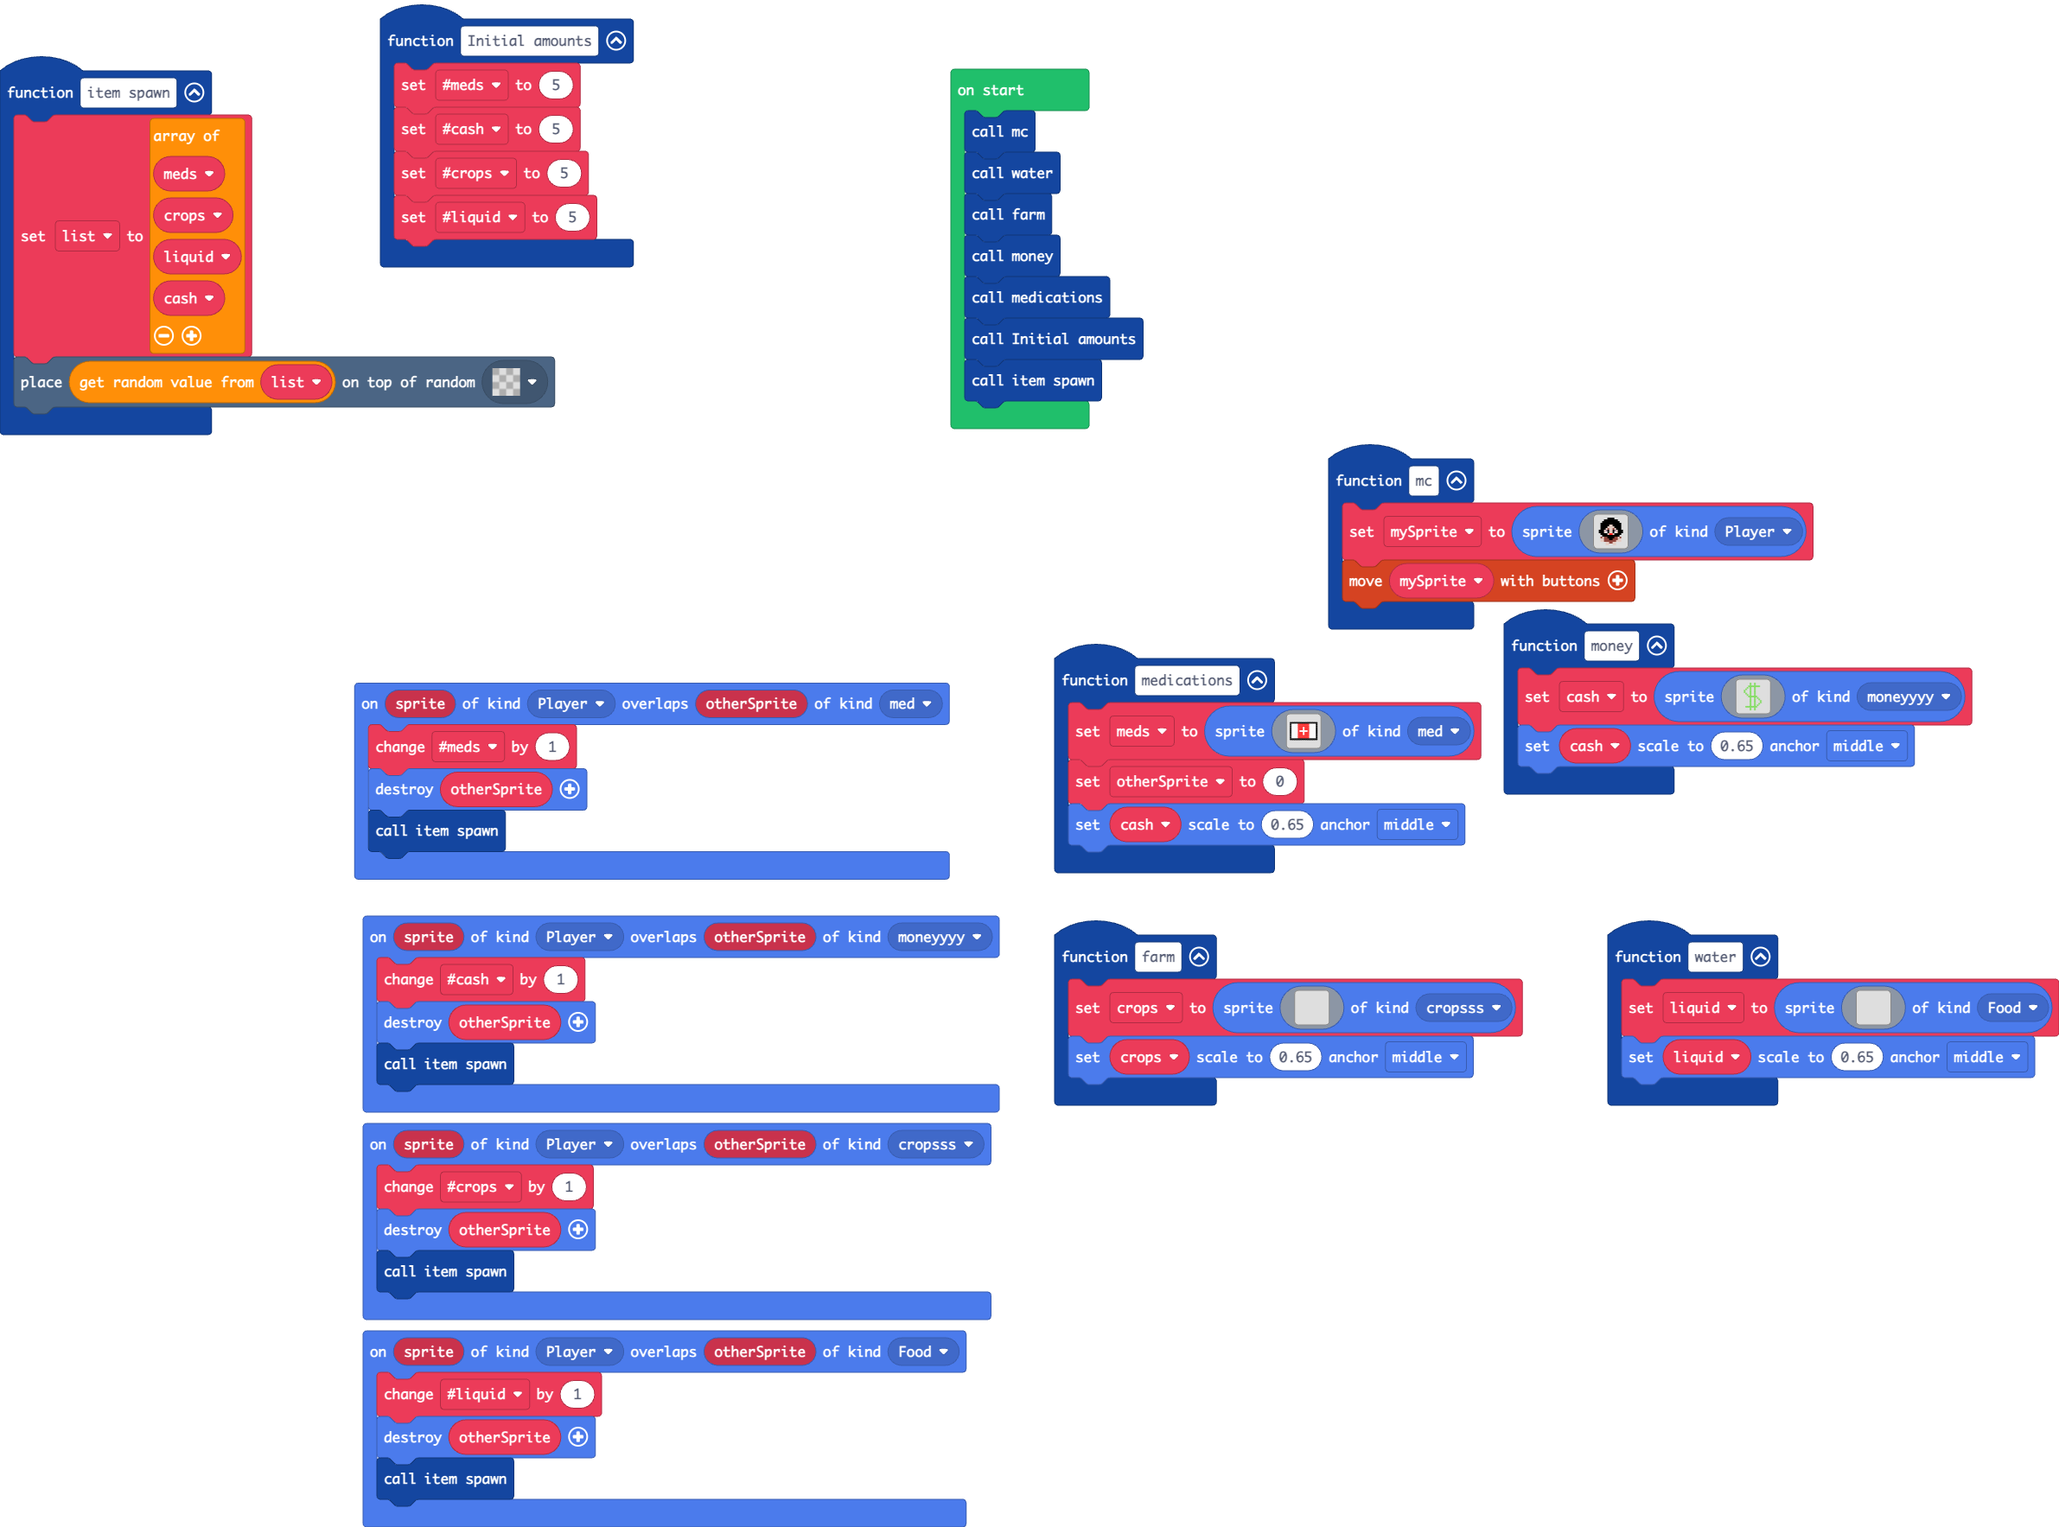
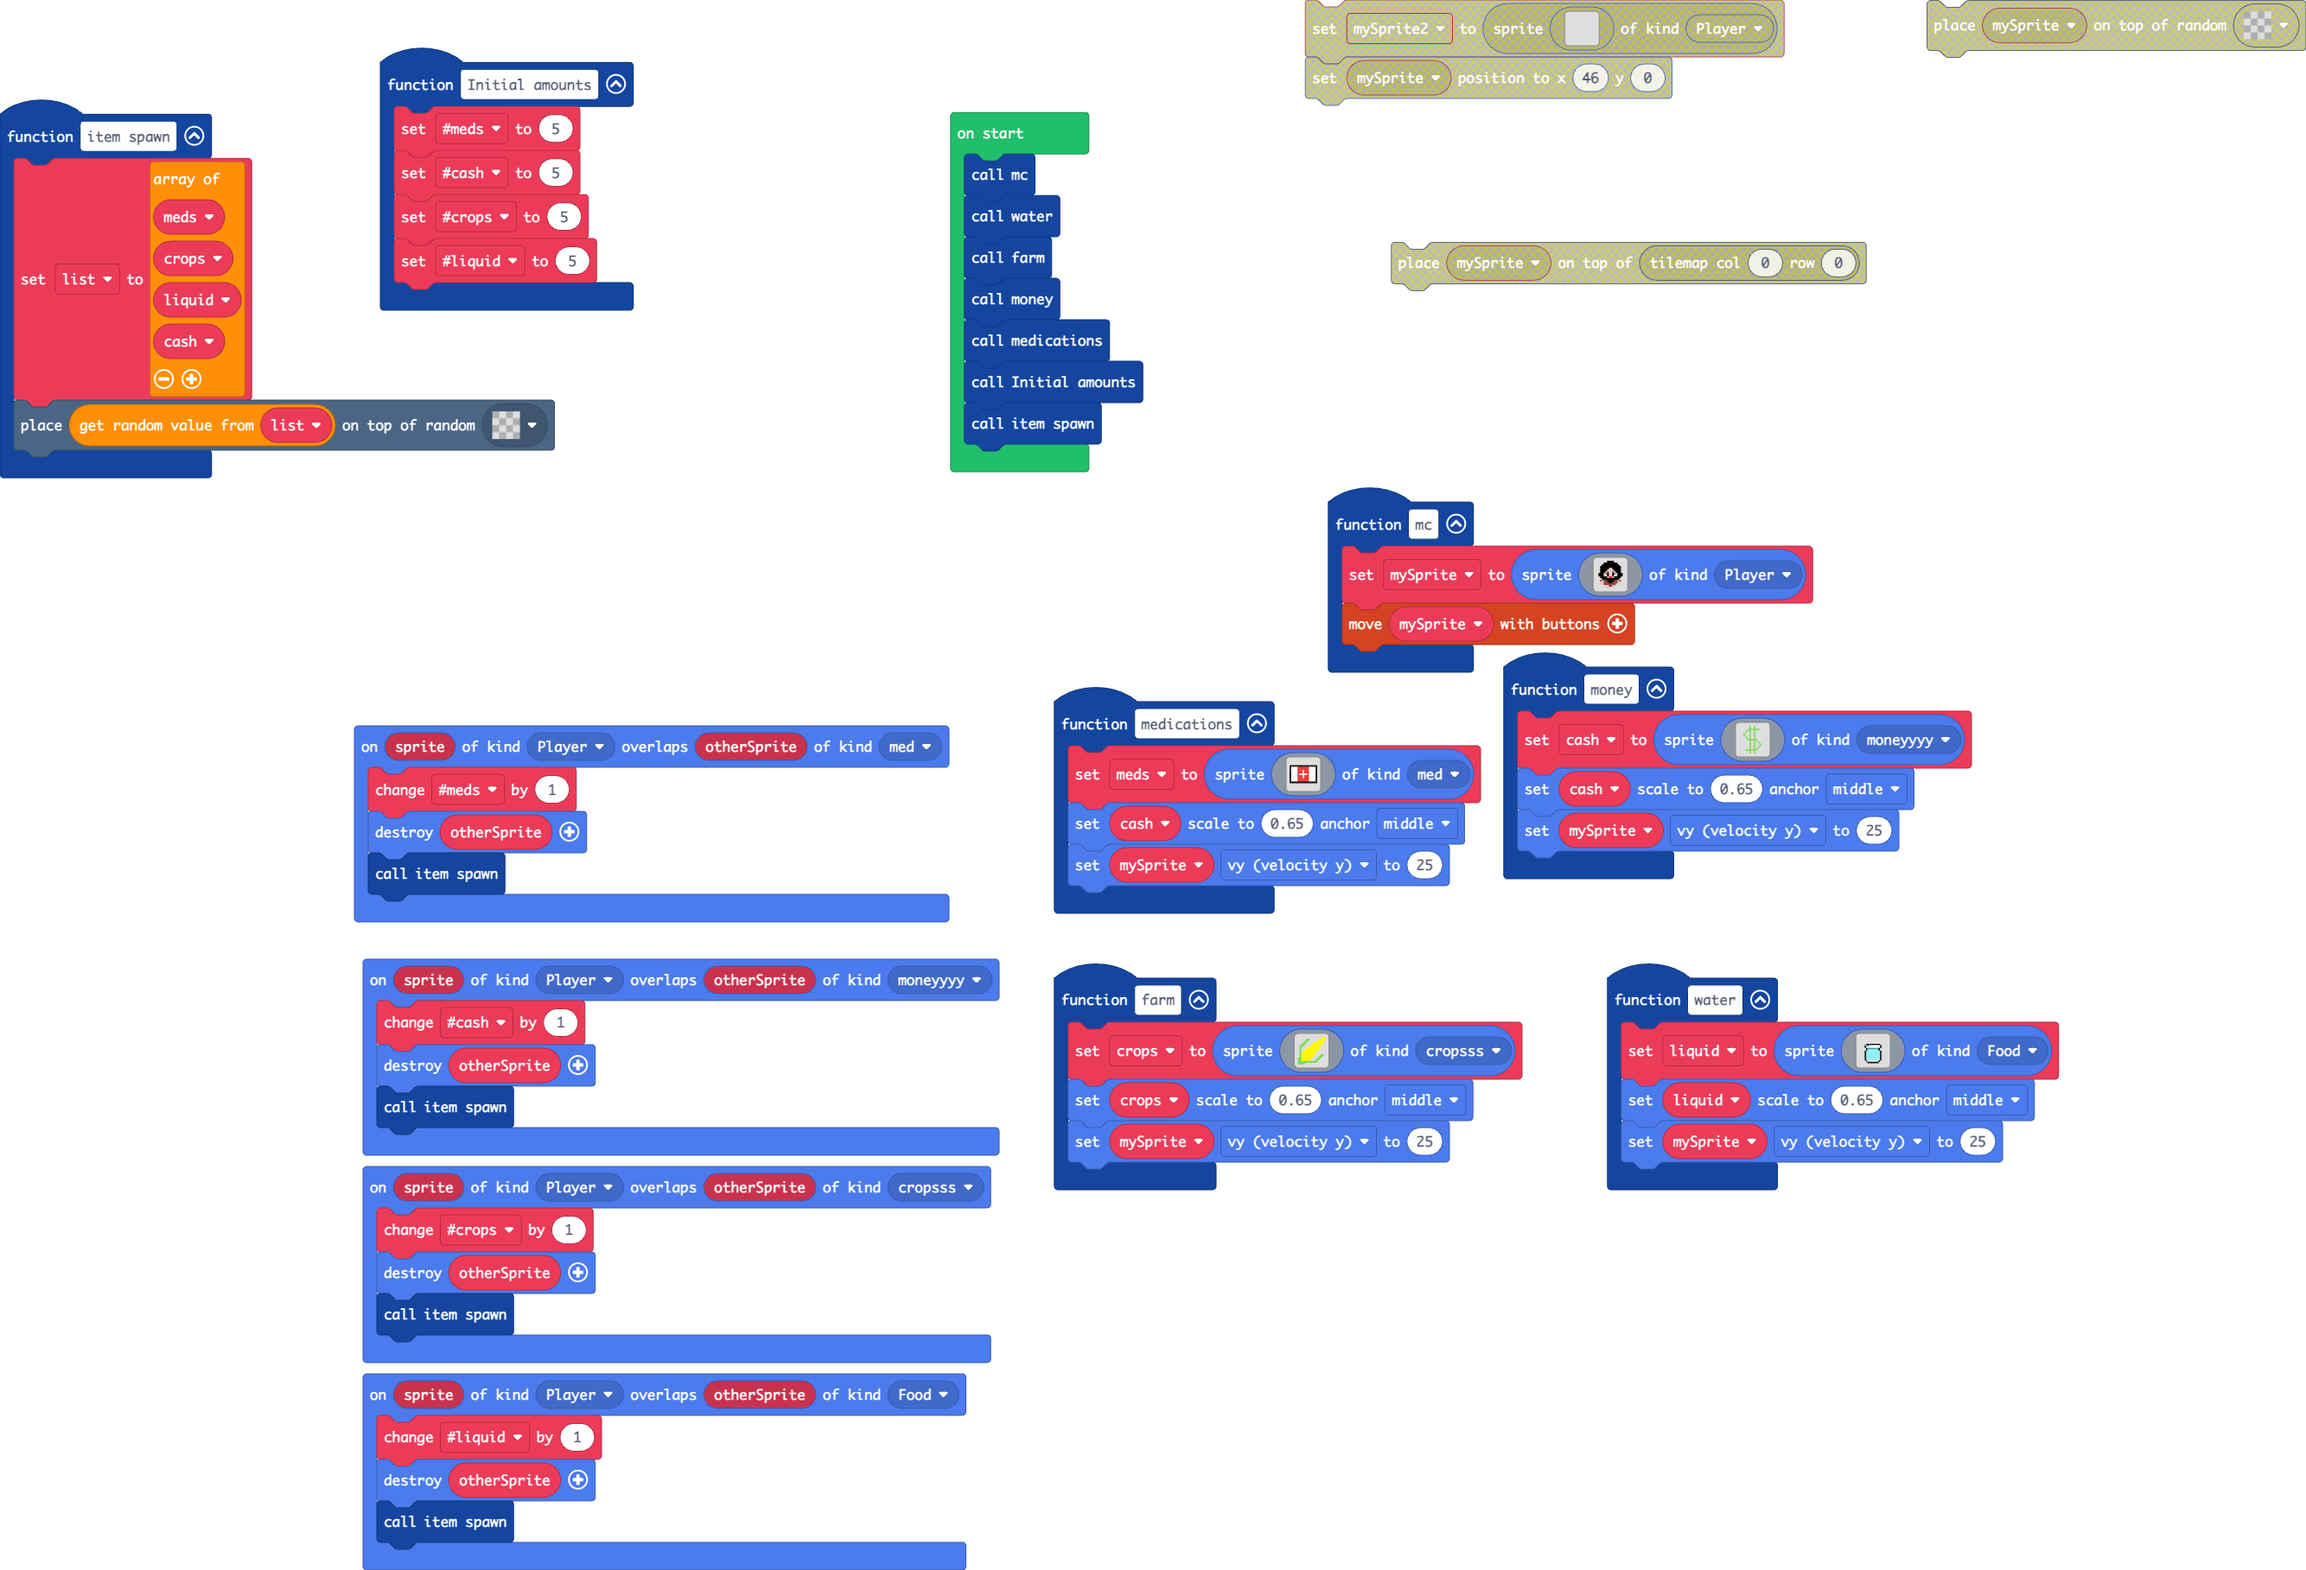
Update main.blocks, main.ts

diff --git a/main.ts b/main.ts
@@ -44,8 +44,8 @@ function medications () {
         . . . . . . . . . . . . . . . . . 
         . . . . . . . . . . . . . . . . . 
         `, SpriteKind.med)
-    otherSprite = 0
     cash.setScale(0.65, ScaleAnchor.Middle)
+    mySprite.vy = 25
 }
 sprites.onOverlap(SpriteKind.Player, SpriteKind.med, function (sprite, otherSprite) {
     meds2 += 1
@@ -64,24 +64,29 @@ sprites.onOverlap(SpriteKind.Player, SpriteKind.cropsss, function (sprite, other
 })
 function water () {
     liquid = sprites.create(img`
-        . . . . . . . . . . . . . . . . 
-        . . . . . . . . . . . . . . . . 
-        . . . . . . . . . . . . . . . . 
-        . . . . . . . . . . . . . . . . 
-        . . . . . . . . . . . . . . . . 
-        . . . . . . . . . . . . . . . . 
-        . . . . . . . . . . . . . . . . 
-        . . . . . . . . . . . . . . . . 
-        . . . . . . . . . . . . . . . . 
-        . . . . . . . . . . . . . . . . 
-        . . . . . . . . . . . . . . . . 
-        . . . . . . . . . . . . . . . . 
-        . . . . . . . . . . . . . . . . 
-        . . . . . . . . . . . . . . . . 
-        . . . . . . . . . . . . . . . . 
-        . . . . . . . . . . . . . . . . 
+        ....................
+        ....................
+        ....................
+        ....................
+        ....................
+        .....ffffffffff.....
+        ....f1811111111f....
+        ....f1111111111f....
+        .....f66666666f.....
+        .....f99999999f.....
+        ....f9999999999f....
+        ....f9999999999f....
+        ....f9999999999f....
+        ....f9999999999f....
+        ....f9999999999f....
+        ....f9999999999f....
+        ....f9999999999f....
+        .....f11111111f.....
+        ......ffffffff......
+        ....................
         `, SpriteKind.Food)
     liquid.setScale(0.65, ScaleAnchor.Middle)
+    mySprite.vy = 25
 }
 function Initial_amounts () {
     meds2 = 5
@@ -112,27 +117,29 @@ function money () {
         ......7..7......
         `, SpriteKind.moneyyyy)
     cash.setScale(0.65, ScaleAnchor.Middle)
+    mySprite.vy = 25
 }
 function farm () {
     crops2 = sprites.create(img`
-        . . . . . . . . . . . . . . . . 
-        . . . . . . . . . . . . . . . . 
-        . . . . . . . . . . . . . . . . 
-        . . . . . . . . . . . . . . . . 
-        . . . . . . . . . . . . . . . . 
-        . . . . . . . . . . . . . . . . 
-        . . . . . . . . . . . . . . . . 
-        . . . . . . . . . . . . . . . . 
-        . . . . . . . . . . . . . . . . 
-        . . . . . . . . . . . . . . . . 
-        . . . . . . . . . . . . . . . . 
-        . . . . . . . . . . . . . . . . 
-        . . . . . . . . . . . . . . . . 
-        . . . . . . . . . . . . . . . . 
-        . . . . . . . . . . . . . . . . 
-        . . . . . . . . . . . . . . . . 
+        . . . . . . . . . . . . . . 5 5 
+        . . . . . 7 7 . . . . . 5 5 5 5 
+        . . . . 7 7 . . . . . 5 5 5 5 . 
+        . . . 7 7 . . . . 5 5 5 5 5 5 . 
+        . . 7 7 . . . . 5 5 5 5 5 5 . . 
+        . 7 7 . . . . 5 5 5 5 5 5 . . . 
+        . 7 . . . 5 5 5 5 5 5 5 5 . . . 
+        . 7 . . 5 5 5 5 5 5 5 5 . . . . 
+        . 7 . 5 5 5 5 5 5 5 5 . . . . . 
+        . 7 5 5 5 5 5 5 5 5 . . . . . . 
+        . 7 5 5 5 5 5 5 5 5 . . . 7 7 . 
+        . 7 5 5 5 5 5 5 5 . . . 7 7 . . 
+        7 7 5 5 5 5 5 5 . . . 7 7 . . . 
+        7 7 5 5 5 5 5 . . . 7 7 . . . . 
+        7 7 7 7 7 7 7 7 7 7 7 . . . . . 
+        7 7 7 7 . . . . . . . . . . . . 
         `, SpriteKind.cropsss)
     crops2.setScale(0.65, ScaleAnchor.Middle)
+    mySprite.vy = 25
 }
 sprites.onOverlap(SpriteKind.Player, SpriteKind.Food, function (sprite, otherSprite) {
     liquid2 += 1
@@ -156,7 +163,6 @@ let crops = 0
 let cash2 = 0
 let meds2 = 0
 let cash: Sprite = null
-let otherSprite = 0
 let meds: Sprite = null
 let mySprite: Sprite = null
 mc()
